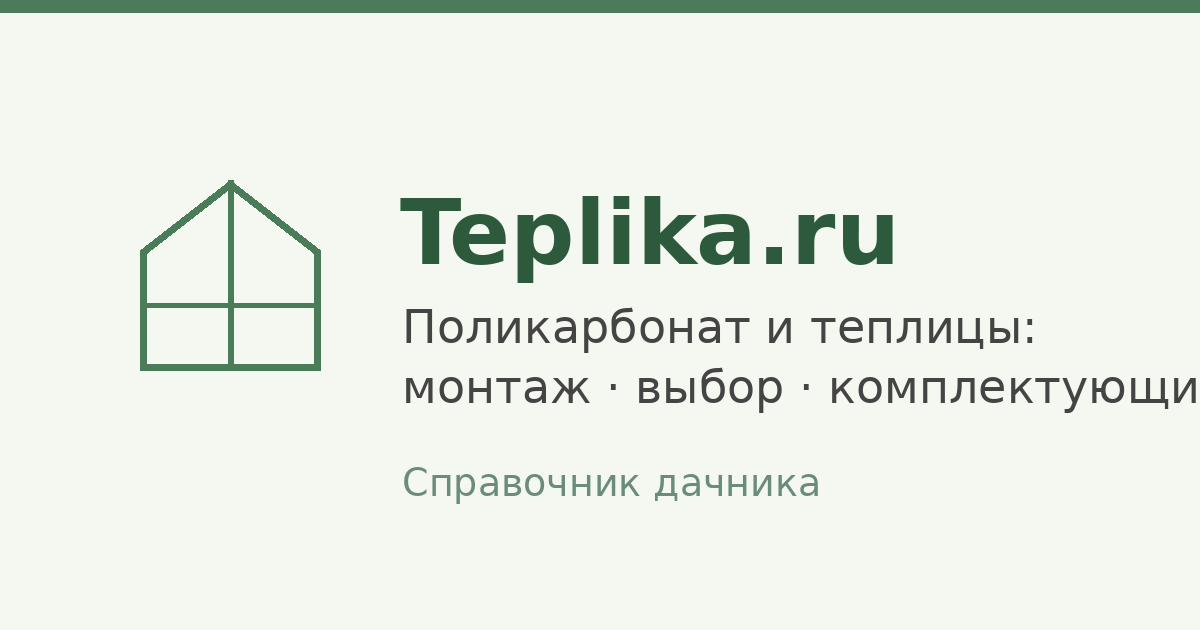
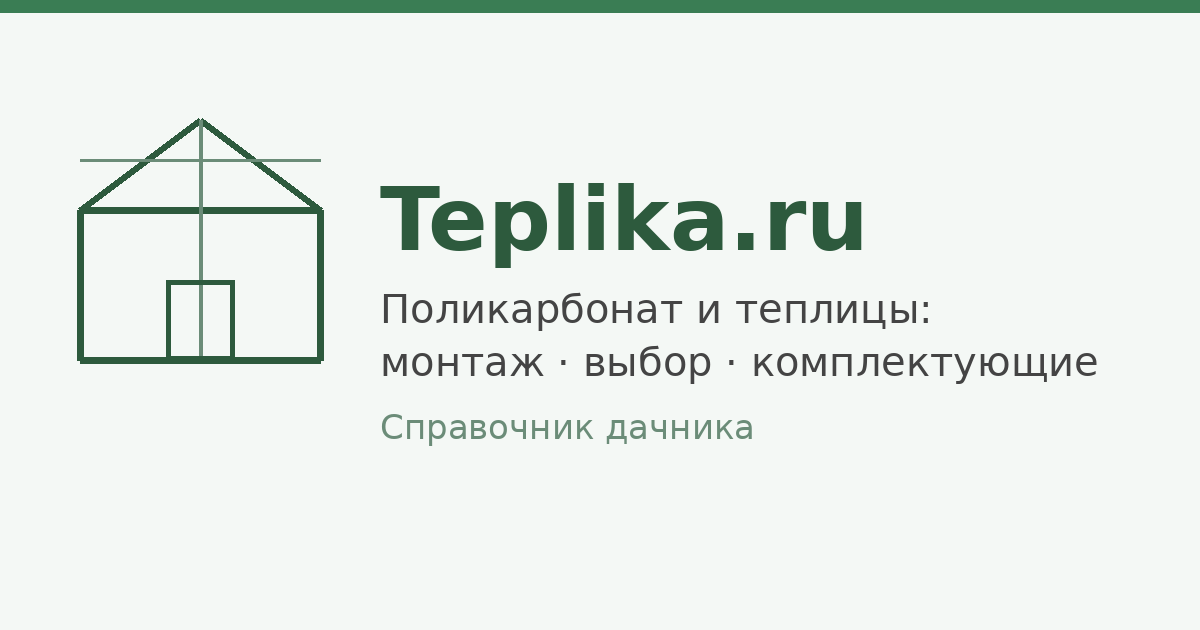
Redraw og:image with centered, non-clipped text layout

Changed region(s): [[0.3083, 0.2714, 1.0, 0.7238], [0.0617, 0.181, 0.2775, 0.6032], [0.3392, 0.7238, 0.6783, 0.8143]]

diff --git a/img/make_og.py b/img/make_og.py
@@ -1,0 +1,72 @@
+#!/usr/bin/env python3
+"""Генерация обложки для соцсетей (og:image) 1200x630."""
+from PIL import Image, ImageDraw, ImageFont
+
+W, H = 1200, 630
+BG = "#f4f8f5"
+GREEN = "#2d5a3d"
+DARK = "#444444"
+MUTED = "#6b8c78"
+BAR = "#3a7d54"
+
+FONT_BOLD = "/usr/share/fonts/truetype/dejavu/DejaVuSans-Bold.ttf"
+FONT_REG = "/usr/share/fonts/truetype/dejavu/DejaVuSans.ttf"
+
+img = Image.new("RGB", (W, H), BG)
+d = ImageDraw.Draw(img)
+
+# Верхняя зелёная полоса
+d.rectangle([0, 0, W, 12], fill=BAR)
+
+# ---- Левая часть: иконка теплицы ----
+# Область под иконку: x 70..330
+cx, base = 200, 360
+half_w, wall_h, roof_h = 120, 150, 90
+left, right = cx - half_w, cx + half_w
+top_wall = base - wall_h
+roof_top = top_wall - roof_h
+LW = 7
+# каркас теплицы (арочно-домик)
+d.line([left, base, left, top_wall], fill=GREEN, width=LW)
+d.line([right, base, right, top_wall], fill=GREEN, width=LW)
+d.line([left, base, right, base], fill=GREEN, width=LW)
+d.line([left, top_wall, cx, roof_top], fill=GREEN, width=LW)
+d.line([right, top_wall, cx, roof_top], fill=GREEN, width=LW)
+d.line([left, top_wall, right, top_wall], fill=GREEN, width=LW)
+# вертикальная стойка по центру
+d.line([cx, roof_top, cx, base], fill=MUTED, width=4)
+# горизонтальные рёбра
+d.line([left, top_wall - 50, right, top_wall - 50], fill=MUTED, width=3)
+# дверь
+dw = 34
+d.rectangle([cx - dw, base - 80, cx + dw, base], outline=GREEN, width=5)
+
+# ---- Правая часть: текст ----
+tx = 380
+f_logo = ImageFont.truetype(FONT_BOLD, 88)
+f_main = ImageFont.truetype(FONT_REG, 40)
+f_tag = ImageFont.truetype(FONT_REG, 34)
+
+lines = [
+    (f_logo, "Teplika.ru", GREEN, 24),
+    (f_main, "Поликарбонат и теплицы:", DARK, 14),
+    (f_main, "монтаж · выбор · комплектующие", DARK, 30),
+    (f_tag, "Справочник дачника", MUTED, 0),
+]
+
+# измеряем суммарную высоту блока для вертикального центрирования
+total = 0
+heights = []
+for f, t, c, gap in lines:
+    bb = d.textbbox((0, 0), t, font=f)
+    h = bb[3] - bb[1]
+    heights.append((bb, h))
+    total += h + gap
+
+y = (H - total) // 2
+for (f, t, c, gap), (bb, h) in zip(lines, heights):
+    d.text((tx, y - bb[1]), t, font=f, fill=c)
+    y += h + gap
+
+img.save("/home/user/teplica-iz-polikarbonata/img/og-cover.png", "PNG")
+print("saved")